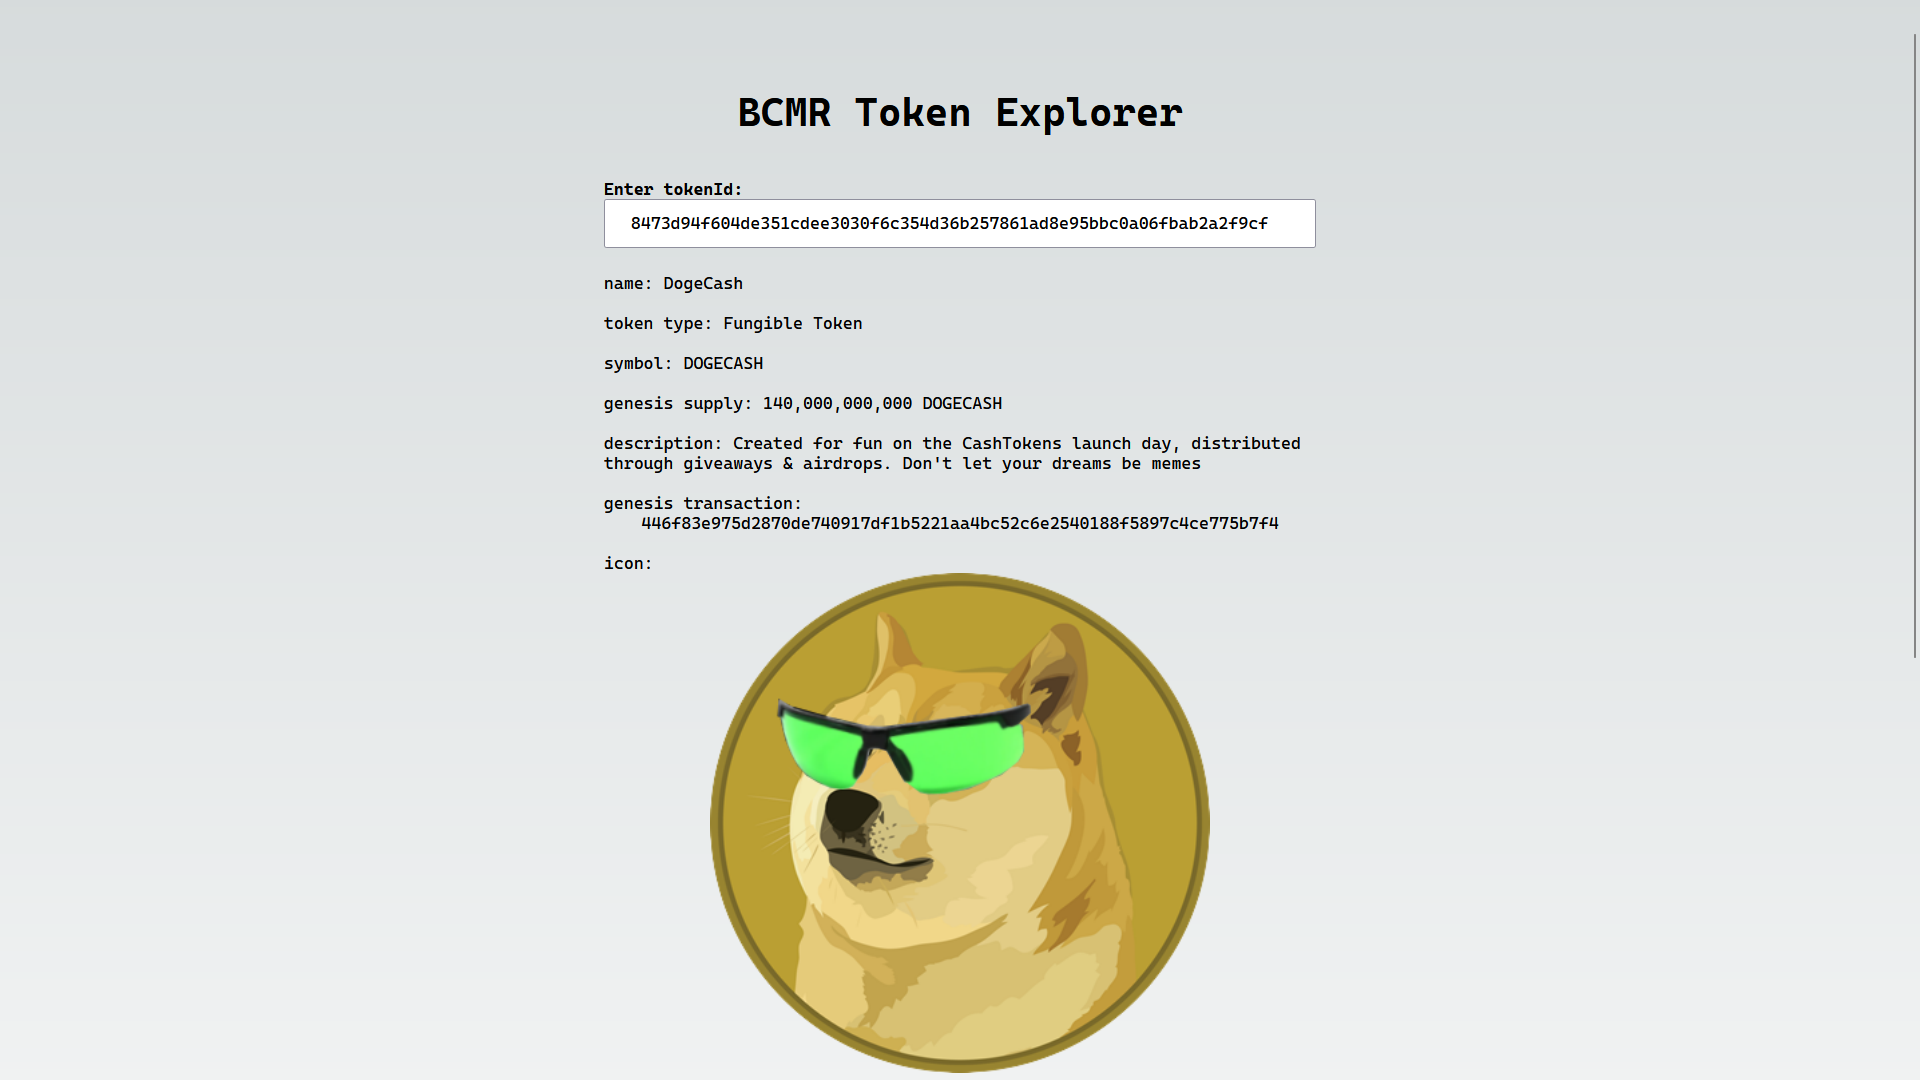
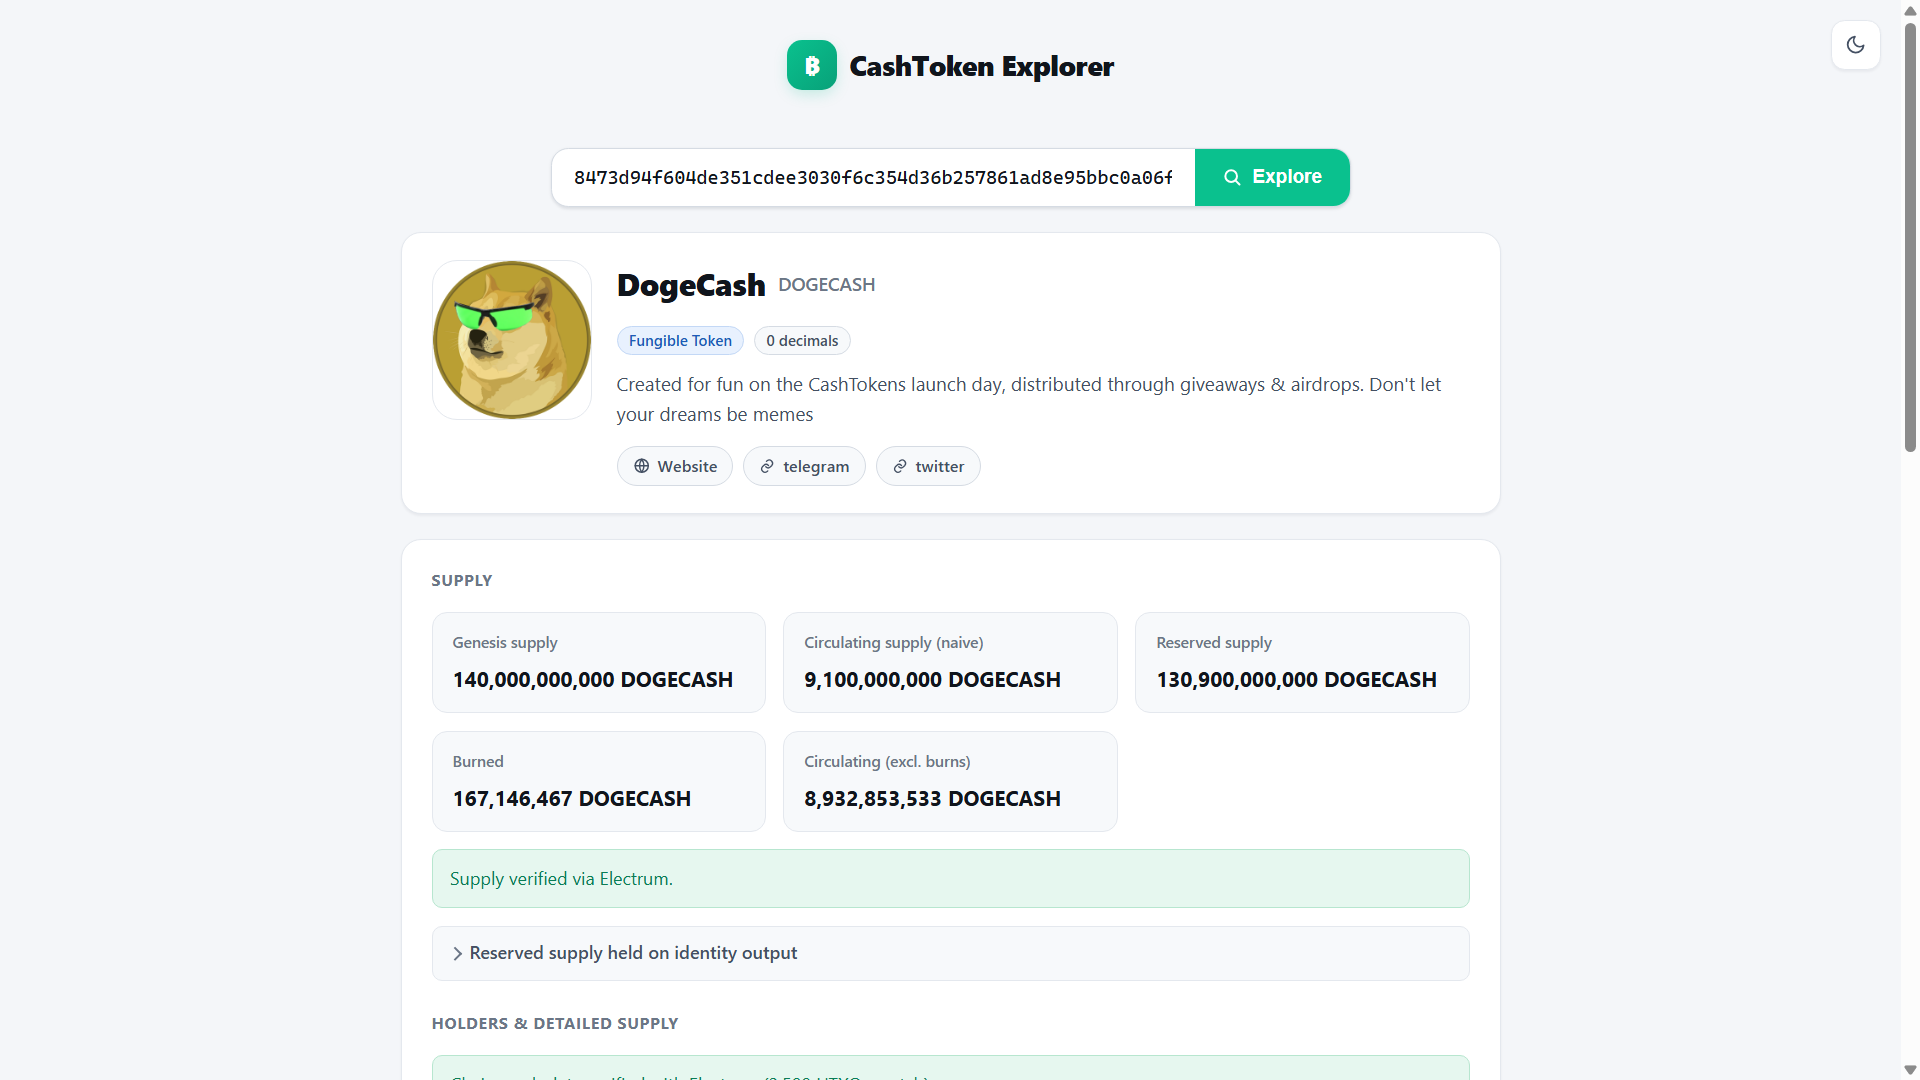
update readme and screenshots

diff --git a/README.md b/README.md
@@ -1,10 +1,16 @@
-# BCMR Token Explorer
+# CashToken Explorer
 
-This is the code repository for [tokenexplorer.cash](https://tokenexplorer.cash/), a BCMR token explorer for CashTokens on Bitcoin Cash mainnet & chipnet.
+This is the code repository for [tokenexplorer.cash](https://tokenexplorer.cash/). Explore CashTokens metadata, supply, holders and authchain on Bitcoin Cash (mainnet & chipnet).
+
+![screenshotHomePage](./screenshots/screenshotHomePage.png)
 
 ## Features
 
-The token explorer shows the tokens BCMR metadata and onchain info: the genesis supply of FTs, the number of NFTs, active minting NFTs, circulating & reserved supply of FTs, the location of the authHead, the location of the metadata file, the authChain length, the number of metadata updates and whether the metadata hash matches.
+The token explorer shows a token's BCMR metadata and on-chain info: the genesis supply of FTs, the number of NFTs, active minting NFTs, circulating & reserved supply of FTs, holder counts, the location of the authHead, the location of the metadata file, the authChain length, the number of metadata updates and whether the metadata hash matches.
+
+The interface has a clean card-based layout with light & dark mode, and the home page lists example tokens to explore.
+
+It's also a handy tool for token creators, who can use the "Verification" checks to confirm their token's BCMR metadata is valid, correctly hashed on-chain, and properly registered.
 
 Take a look at [the token info of DogeCash](https://tokenexplorer.cash/?tokenId=8473d94f604de351cdee3030f6c354d36b257861ad8e95bbc0a06fbab2a2f9cf) as an example.
 
@@ -12,8 +18,13 @@ Take a look at [the token info of DogeCash](https://tokenexplorer.cash/?tokenId=
 
 ![ScreenshotDogeCash2](./screenshots/ScreenshotDogeCash2.png)
 
+## How the data is fetched
+
+On-chain token info (the genesis transaction, genesis supply of FTs, active minting UTXOs, holders and the authchain) is queried from [Chaingraph](https://chaingraph.cash/). The Chaingraph instance defaults to a [public instance](https://gql.chaingraph.pat.mn/v1/graphql) but is configurable via the `NEXT_PUBLIC_CHAINGRAPH_URL` environment variable.
+
+Because a Chaingraph instance can serve stale UTXO data (reporting already-spent UTXOs as unspent), the reserved and circulating supply are cross-verified against Electrum Cash servers, which talk to full nodes directly. Electrum is used to confirm which of Chaingraph's UTXOs are actually still unspent; if the two disagree, Electrum's view is used and the discrepancy is surfaced in the UI. Electrum verification is non-blocking: if it fails, the explorer falls back to Chaingraph data labelled as unverified.
+
 ## How it was made
 
 The project was started from the [mainnet-js React-next](https://github.com/mainnet-cash/mainnet-js/tree/master/demo/react-next) example.
 [Mainnet-js](https://mainnet.cash/) is used to import onchain linked Bitcoin Cash Metadata Registries (BCMR).
-A [public chaingraph instance](https://gql.chaingraph.pat.mn/v1/graphql) is used to query on-chain token info such as the genesis transaction, the genesis supply of FT and active minting UTXOs.
